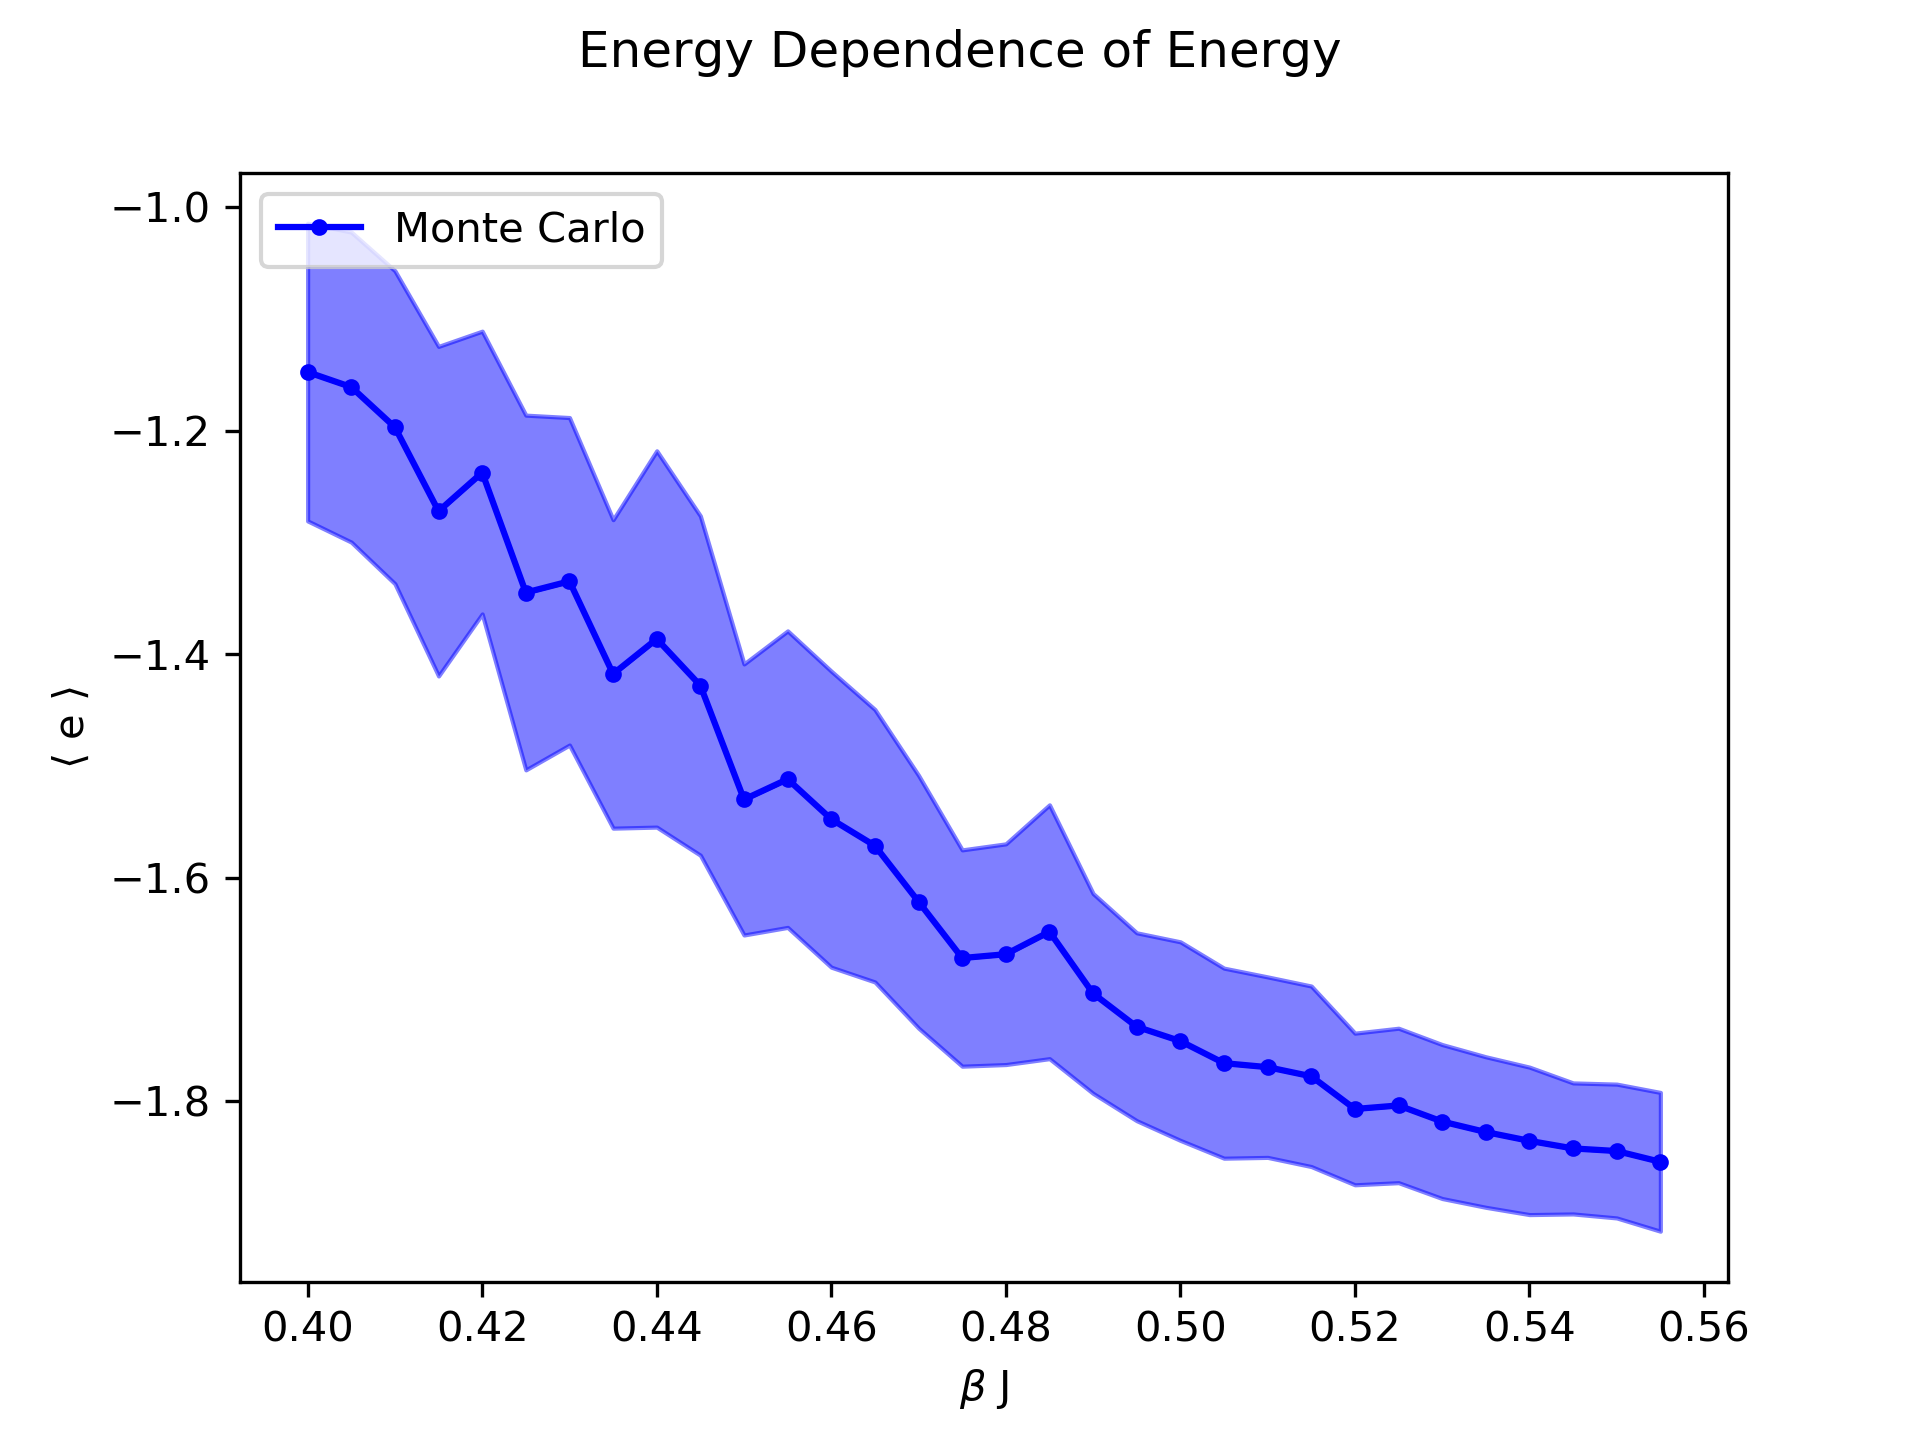
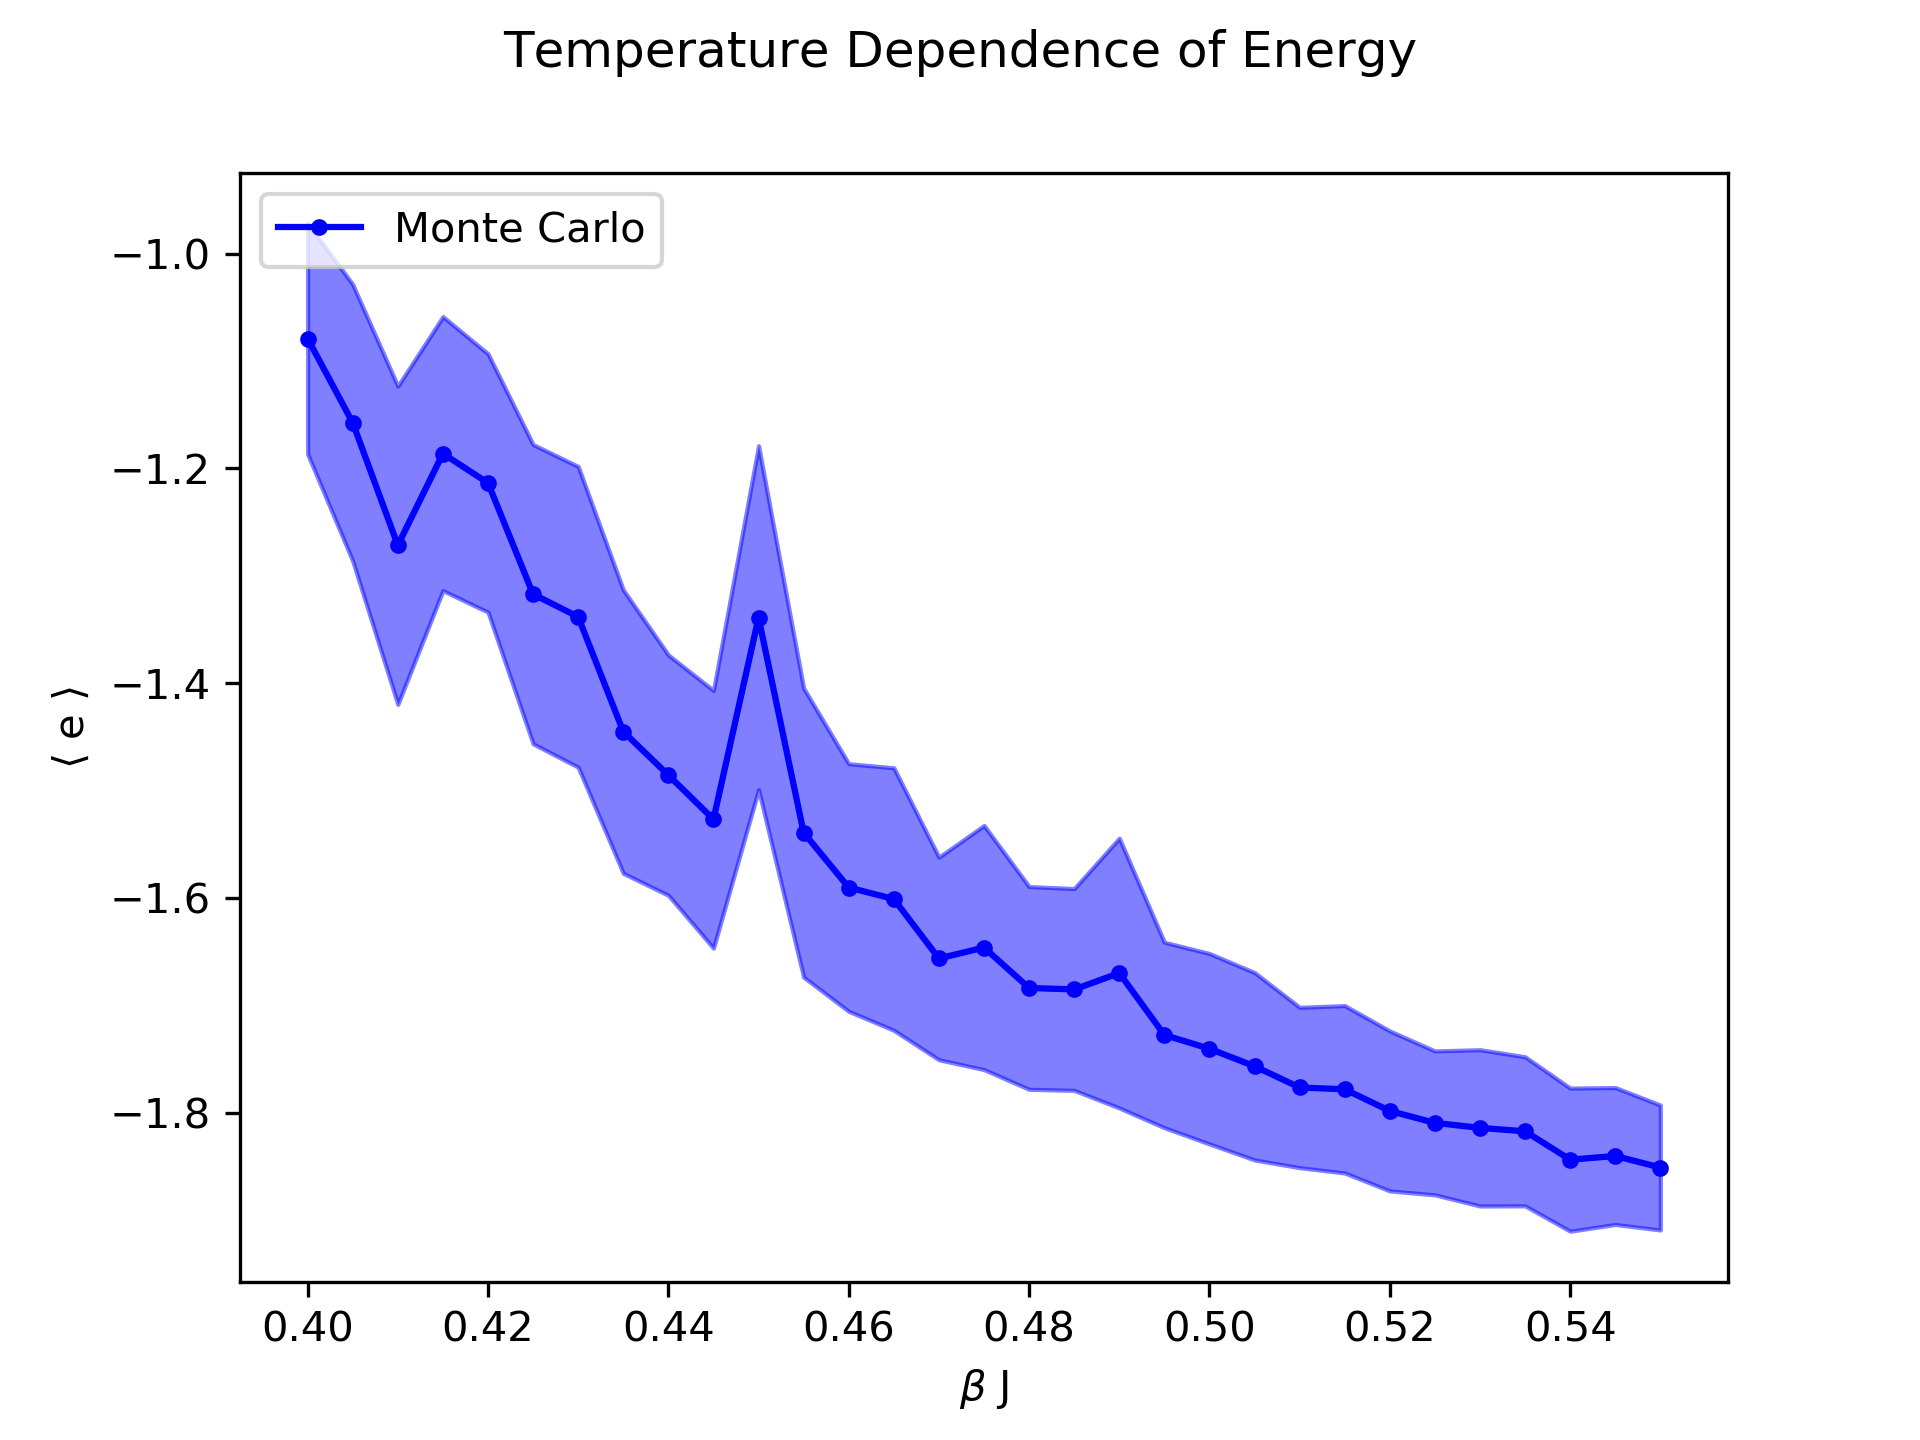
all gifs/plots

diff --git a/part2A.py b/part2A.py
@@ -1,0 +1,69 @@
+import numpy as np
+import matplotlib.pyplot as plt
+from ising import Ising2D
+
+def onsager(BJ):
+    if BJ < .4407:
+        return 0
+    else:
+       return np.power(1-np.power(np.sinh(2*BJ),-4),.125)
+
+
+if __name__ == "__main__":
+
+    ising = Ising2D(N=20, BJ=0.5)
+
+    # values of BJ around the critical point
+    temp_range = np.linspace(0.4,0.55,31)
+
+    e_avs = []
+    e_sigmas = []
+    m_avs = []
+    m_sigmas = []
+    
+    onsag = []
+
+    # scan temps and calc. m/e values
+    for temp in temp_range:
+
+        ising.BJ = temp
+        ising.run(initial_spin='up', cycles = 2500, gif_name=None)
+        m_av, e_av, m_sigma, e_sigma = ising.stats()
+
+        print('e_av    {:f}'.format(e_av))
+        print('e_sigma {:f}'.format(e_sigma))
+        print('m_av    {:f}'.format(m_av))
+        print('m_sigma {:f}'.format(m_sigma))
+
+        e_avs.append(e_av) 
+        e_sigmas.append(e_sigma) 
+        m_avs.append(m_av) 
+        m_sigmas.append(m_sigma) 
+        onsag.append(onsager(temp))
+    
+    # plot m(BJ)
+    fig, ax = plt.subplots()
+
+    ax.plot(temp_range, onsag, label='Analytic', linewidth=2, color='black')
+    ax.plot(temp_range, m_avs, label='Monte Carlo', color ='blue', marker = '.')
+    ax.fill_between(temp_range, np.array(m_avs), np.array(m_avs)-np.array(m_sigmas), color='blue', alpha = 0.5)
+    ax.fill_between(temp_range, np.array(m_avs), np.array(m_avs)+np.array(m_sigmas), color='blue', alpha = 0.5)
+    ax.set_xlabel(r'$\beta$ J')
+    ax.set_ylabel(r'$\langle$ m $\rangle$')
+    ax.legend(loc='upper left')
+    plt.suptitle('Temperature Dependence of Magnetization')
+    plt.savefig('graphics/temp_mag.png', dpi=300)
+
+    # plot e(BJ)
+    fig2, ax2 = plt.subplots()
+
+    ax2.plot(temp_range, e_avs, label='Monte Carlo', color ='blue', marker = '.')
+    ax2.fill_between(temp_range, np.array(e_avs), np.array(e_avs)-np.array(e_sigmas), color='blue', alpha = 0.5)
+    ax2.fill_between(temp_range, np.array(e_avs), np.array(e_avs)+np.array(e_sigmas), color='blue', alpha = 0.5)
+    ax2.set_xlabel(r'$\beta$ J')
+    ax2.set_ylabel(r'$\langle$ e $\rangle$')
+    ax2.legend(loc='upper left')
+    plt.suptitle('Temperature Dependence of Energy')
+    plt.savefig('graphics/temp_energy.png', dpi=300)
+
+    plt.show()

diff --git a/part3.py b/part3.py
@@ -1,0 +1,58 @@
+import numpy as np
+from ising import Ising2D
+import matplotlib.pyplot as plt
+
+if __name__ == "__main__":
+
+    ising = Ising2D(N=20, BJ=0.5)
+
+    # how much does this H change E (+-5% predicted)?
+    for H in [-.00962, 0.0, 0.00962]:
+        ising.H = H
+        ising.run(initial_spin='up', steps=1000000, gif_name=None)
+        m_av, e_av, m_sigma, e_sigma = ising.stats()
+        print('  Magnetic field {:f}'.format(H))
+        print('  e_av {:f}'.format(e_av))
+        print('  m_av {:f}'.format(m_av))
+
+
+    # scan temps, calc. e/m values
+    e_ups = []
+    e_downs = []
+    m_ups = []
+    m_downs = []
+    H_range = np.linspace(-.1,.1,41)
+
+    for H in H_range:
+        ising.H = H
+        ising.run(initial_spin='up', steps=1000000, gif_name=None)
+        m_av, e_av, m_sigma, e_sigma = ising.stats()
+        e_ups.append(e_av)
+        m_ups.append(m_av)
+        ising.run(initial_spin='down', steps=1000000, gif_name=None)
+        m_av, e_av, m_sigma, e_sigma = ising.stats()
+        e_downs.append(e_av)
+        m_downs.append(m_av)
+
+
+    fig, ax = plt.subplots()
+
+    ax.plot(H_range, e_ups, label='Initial Up', linewidth=2, color='red', marker = '.')
+    ax.plot(H_range, e_downs, label='Initial Down', linewidth=2, color ='blue', marker = '.')
+    ax.set_xlabel(r'H')
+    ax.set_ylabel(r'$\langle$ e $\rangle$')
+    ax.legend(loc='upper left')
+    plt.suptitle('External Field Dependence of Energy')
+    plt.savefig('graphics/field_energy.png', dpi=300)
+
+    fig2, ax2 = plt.subplots()
+
+    ax2.plot(H_range, m_ups, label='Initial Up', linewidth=2, color='red', marker = '.')
+    ax2.plot(H_range, m_downs, label='Initial Down', linewidth=2, color ='blue', marker = '.')
+    ax2.set_xlabel(r'H')
+    ax2.set_ylabel(r'$\langle$ m $\rangle$')
+    ax2.legend(loc='upper left')
+    plt.suptitle('External Field Dependence of Magnetization')
+    plt.savefig('graphics/field_mag.png', dpi=300)
+
+

diff --git a/part2B.py b/part2B.py
@@ -1,0 +1,50 @@
+import numpy as np
+import matplotlib.pyplot as plt
+from ising import Ising2D
+
+if __name__ == "__main__":
+
+    ising = Ising2D(N=20, BJ=0.5)
+
+    temp_range = np.linspace(0.5, 0.55, 6)
+    cv_anas = []
+    cv_nums = []
+
+    for BJ in temp_range:
+
+        print('Determining Heat Capacity for BJ of {:f}'.format(BJ))
+        ising.BJ = BJ
+        ising.run(initial_spin='up', cycles = 2500, gif_name=None)
+        m_av, e_av, m_sigma, e_sigma = ising.stats()
+        
+        # analytic heat capacity
+        cv_ana = BJ * (e_sigma ** 2) * (ising.N ** 2)
+
+        # numerical heat capacity taken by finite differences
+        isingPlus = Ising2D(N=20, BJ=BJ+0.01)
+        isingPlus.run(initial_spin='up', cycles = 2500, gif_name=None)
+        m_avP, e_avP, m_sigmaP, e_sigmaP = isingPlus.stats()
+
+        isingMinus = Ising2D(N=20, BJ=BJ-0.01)
+        isingMinus.run(initial_spin='up', cycles = 2500, gif_name=None)
+        m_avM, e_avM, m_sigmaM, e_sigmaM = isingMinus.stats()
+
+        dEdBJ = (e_avP - e_avM)/0.02 
+        cv_num = - (BJ ** 2) * dEdBJ
+        print("Calculated dE/dBJ: {:f}".format(dEdBJ))
+        print("Cv analytical: {:f}".format(cv_ana))
+        print("Cv numerical: {:f}".format(cv_num))
+        cv_anas.append(cv_ana)
+        cv_nums.append(cv_num)
+        
+    fig, ax = plt.subplots()
+
+    ax.plot(temp_range, cv_anas, label='Analytic', linewidth=2, color='black', marker = '.')
+    ax.plot(temp_range, cv_nums, label='Finite Differences', color ='blue', marker = '.')
+    ax.set_xlabel(r'$\beta$ J')
+    ax.set_ylabel(r'$C_v$')
+    ax.set_ylim(bottom=0.0)
+    ax.legend(loc='lower left')
+    plt.suptitle('Temperature Dependence of Heat Capacity')
+    plt.savefig('graphics/temp_cv.png', dpi=300)
+

diff --git a/ising.py b/ising.py
@@ -21,7 +21,7 @@ class Ising2D:
         if not cycles:
             cycles = steps // (self.N ** 2)
 
-        print('\nRunning simulation for %d cycles with initial spins %s' % (cycles, initial_spin))
+        print('Running simulation for %d cycles with initial spins %s' % (cycles, initial_spin))
 
         # clear out data from previous runs 
         self.E = np.zeros(cycles+1) 
@@ -33,7 +33,6 @@ class Ising2D:
         self.fig_viz = plt.figure() # For visualizing the model
         self.ax_viz = self.fig_viz.add_axes([0, 0, 1, 1], frameon=False, aspect=1)
         self.images = [] # image snapshots of the model
-        self.fig_graph, self.ax_graph = plt.subplots()
 
         # reset spins to specified distribution
         if initial_spin is 'up': 
@@ -81,8 +80,6 @@ class Ising2D:
         self.ax_graph.plot(self.E)
         plt.close(self.fig_viz)
 
-        self.fig_graph.savefig('testfile.png')
-        plt.close(self.fig_graph)
 
 
     def monte(self,i,j):
